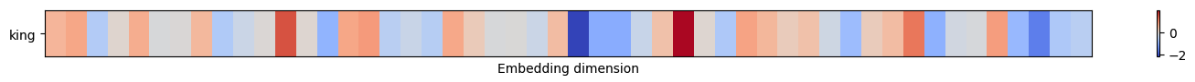
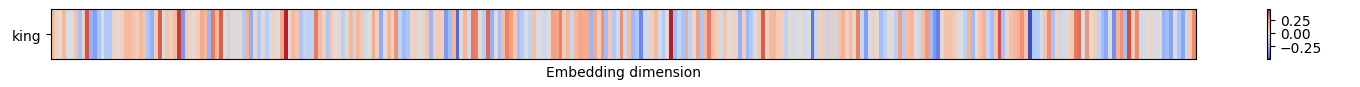
modify king queen example with google news word2vec

diff --git a/episodes/03-embeddings.md b/episodes/03-embeddings.md
@@ -272,16 +272,17 @@ Word embeddings become better and better at representing the words (i.e., a word
 
 In this section we are going to look at a pre-trained word2vec model (that is, pre-computed *word embeddings*) and at some of their properties. Towards the end of the section we're going to compare this model with a word2vec model that we trained on our own on a small subset of the Gutenberg books we introduced in the previous episode.
 
-We use the trained word2vec model named `GloVe` from the `gensim` library. The GloVe embeddings was trained on an English Wikipedia dump and English Gigaword 5th Edition dataset. It has 6B tokens. The original source of the embeddings can be found here: https://nlp.stanford.edu/projects/glove/
+We use the trained word2vec model named `word2vec-google-news-300` from the `gensim` library. This model is trained on a part of the Google News dataset (about 100 billion words). The model contains 300-dimensional vectors for 3 million words and phrases. 
 
 We can download this model locally with this code:
 
 ```python
 import gensim.downloader
-google_vectors = gensim.downloader.load('glove-wiki-gigaword-50')
+google_vectors = gensim.downloader.load('word2vec-google-news-300')
 ```
 
 ::::::: callout
+Note that `gensim` includes various models for word representations, not just `Word2Vec`. These include `FastText`, `Glove`, `ConceptNet`, etc. These methods capture different aspects of word and subword information. 
 
 You can see how many (and which) pretrained model the `gensim` library contains with the following code snippet:
 
@@ -294,6 +295,8 @@ Output:
 ```python
 ['fasttext-wiki-news-subwords-300', 'conceptnet-numberbatch-17-06-300', 'word2vec-ruscorpora-300', 'word2vec-google-news-300', 'glove-wiki-gigaword-50', 'glove-wiki-gigaword-100', 'glove-wiki-gigaword-200', 'glove-wiki-gigaword-300', 'glove-twitter-25', 'glove-twitter-50', 'glove-twitter-100', 'glove-twitter-200', '__testing_word2vec-matrix-synopsis']
 ```
+
+In the context of this episode we focus on `Word2Vec` only, as this is the most famous.
 :::::::
 
 Next, we can look at the embedding of the word `king`:
@@ -304,17 +307,84 @@ print(google_vectors['king'])
 
 Output:
 ```python
-[ 0.50451   0.68607  -0.59517  -0.022801  0.60046  -0.13498  -0.08813
-  0.47377  -0.61798  -0.31012  -0.076666  1.493    -0.034189 -0.98173
-  0.68229   0.81722  -0.51874  -0.31503  -0.55809   0.66421   0.1961
- -0.13495  -0.11476  -0.30344   0.41177  -2.223    -1.0756   -1.0783
- -0.34354   0.33505   1.9927   -0.04234  -0.64319   0.71125   0.49159
-  0.16754   0.34344  -0.25663  -0.8523    0.1661    0.40102   1.1685
- -1.0137   -0.21585  -0.15155   0.78321  -0.91241  -1.6106   -0.64426
- -0.51042 ]
+[ 1.25976562e-01  2.97851562e-02  8.60595703e-03  1.39648438e-01
+ -2.56347656e-02 -3.61328125e-02  1.11816406e-01 -1.98242188e-01
+  5.12695312e-02  3.63281250e-01 -2.42187500e-01 -3.02734375e-01
+ -1.77734375e-01 -2.49023438e-02 -1.67968750e-01 -1.69921875e-01
+  3.46679688e-02  5.21850586e-03  4.63867188e-02  1.28906250e-01
+  1.36718750e-01  1.12792969e-01  5.95703125e-02  1.36718750e-01
+  1.01074219e-01 -1.76757812e-01 -2.51953125e-01  5.98144531e-02
+  3.41796875e-01 -3.11279297e-02  1.04492188e-01  6.17675781e-02
+  1.24511719e-01  4.00390625e-01 -3.22265625e-01  8.39843750e-02
+  3.90625000e-02  5.85937500e-03  7.03125000e-02  1.72851562e-01
+  1.38671875e-01 -2.31445312e-01  2.83203125e-01  1.42578125e-01
+  3.41796875e-01 -2.39257812e-02 -1.09863281e-01  3.32031250e-02
+ -5.46875000e-02  1.53198242e-02 -1.62109375e-01  1.58203125e-01
+ -2.59765625e-01  2.01416016e-02 -1.63085938e-01  1.35803223e-03
+ -1.44531250e-01 -5.68847656e-02  4.29687500e-02 -2.46582031e-02
+  1.85546875e-01  4.47265625e-01  9.58251953e-03  1.31835938e-01
+  9.86328125e-02 -1.85546875e-01 -1.00097656e-01 -1.33789062e-01
+ -1.25000000e-01  2.83203125e-01  1.23046875e-01  5.32226562e-02
+ -1.77734375e-01  8.59375000e-02 -2.18505859e-02  2.05078125e-02
+ -1.39648438e-01  2.51464844e-02  1.38671875e-01 -1.05468750e-01
+  1.38671875e-01  8.88671875e-02 -7.51953125e-02 -2.13623047e-02
+  1.72851562e-01  4.63867188e-02 -2.65625000e-01  8.91113281e-03
+  1.49414062e-01  3.78417969e-02  2.38281250e-01 -1.24511719e-01
+ -2.17773438e-01 -1.81640625e-01  2.97851562e-02  5.71289062e-02
+ -2.89306641e-02  1.24511719e-02  9.66796875e-02 -2.31445312e-01
+  5.81054688e-02  6.68945312e-02  7.08007812e-02 -3.08593750e-01
+ -2.14843750e-01  1.45507812e-01 -4.27734375e-01 -9.39941406e-03
+  1.54296875e-01 -7.66601562e-02  2.89062500e-01  2.77343750e-01
+ -4.86373901e-04 -1.36718750e-01  3.24218750e-01 -2.46093750e-01
+ -3.03649902e-03 -2.11914062e-01  1.25000000e-01  2.69531250e-01
+  2.04101562e-01  8.25195312e-02 -2.01171875e-01 -1.60156250e-01
+ -3.78417969e-02 -1.20117188e-01  1.15234375e-01 -4.10156250e-02
+ -3.95507812e-02 -8.98437500e-02  6.34765625e-03  2.03125000e-01
+  1.86523438e-01  2.73437500e-01  6.29882812e-02  1.41601562e-01
+ -9.81445312e-02  1.38671875e-01  1.82617188e-01  1.73828125e-01
+  1.73828125e-01 -2.37304688e-01  1.78710938e-01  6.34765625e-02
+  2.36328125e-01 -2.08984375e-01  8.74023438e-02 -1.66015625e-01
+ -7.91015625e-02  2.43164062e-01 -8.88671875e-02  1.26953125e-01
+ -2.16796875e-01 -1.73828125e-01 -3.59375000e-01 -8.25195312e-02
+ -6.49414062e-02  5.07812500e-02  1.35742188e-01 -7.47070312e-02
+ -1.64062500e-01  1.15356445e-02  4.45312500e-01 -2.15820312e-01
+ -1.11328125e-01 -1.92382812e-01  1.70898438e-01 -1.25000000e-01
+  2.65502930e-03  1.92382812e-01 -1.74804688e-01  1.39648438e-01
+  2.92968750e-01  1.13281250e-01  5.95703125e-02 -6.39648438e-02
+  9.96093750e-02 -2.72216797e-02  1.96533203e-02  4.27246094e-02
+ -2.46093750e-01  6.39648438e-02 -2.25585938e-01 -1.68945312e-01
+  2.89916992e-03  8.20312500e-02  3.41796875e-01  4.32128906e-02
+  1.32812500e-01  1.42578125e-01  7.61718750e-02  5.98144531e-02
+ -1.19140625e-01  2.74658203e-03 -6.29882812e-02 -2.72216797e-02
+ -4.82177734e-03 -8.20312500e-02 -2.49023438e-02 -4.00390625e-01
+ -1.06933594e-01  4.24804688e-02  7.76367188e-02 -1.16699219e-01
+  7.37304688e-02 -9.22851562e-02  1.07910156e-01  1.58203125e-01
+  4.24804688e-02  1.26953125e-01  3.61328125e-02  2.67578125e-01
+ -1.01074219e-01 -3.02734375e-01 -5.76171875e-02  5.05371094e-02
+  5.26428223e-04 -2.07031250e-01 -1.38671875e-01 -8.97216797e-03
+ -2.78320312e-02 -1.41601562e-01  2.07031250e-01 -1.58203125e-01
+  1.27929688e-01  1.49414062e-01 -2.24609375e-02 -8.44726562e-02
+  1.22558594e-01  2.15820312e-01 -2.13867188e-01 -3.12500000e-01
+ -3.73046875e-01  4.08935547e-03  1.07421875e-01  1.06933594e-01
+  7.32421875e-02  8.97216797e-03 -3.88183594e-02 -1.29882812e-01
+  1.49414062e-01 -2.14843750e-01 -1.83868408e-03  9.91210938e-02
+  1.57226562e-01 -1.14257812e-01 -2.05078125e-01  9.91210938e-02
+  3.69140625e-01 -1.97265625e-01  3.54003906e-02  1.09375000e-01
+  1.31835938e-01  1.66992188e-01  2.35351562e-01  1.04980469e-01
+ -4.96093750e-01 -1.64062500e-01 -1.56250000e-01 -5.22460938e-02
+  1.03027344e-01  2.43164062e-01 -1.88476562e-01  5.07812500e-02
+ -9.37500000e-02 -6.68945312e-02  2.27050781e-02  7.61718750e-02
+  2.89062500e-01  3.10546875e-01 -5.37109375e-02  2.28515625e-01
+  2.51464844e-02  6.78710938e-02 -1.21093750e-01 -2.15820312e-01
+ -2.73437500e-01 -3.07617188e-02 -3.37890625e-01  1.53320312e-01
+  2.33398438e-01 -2.08007812e-01  3.73046875e-01  8.20312500e-02
+  2.51953125e-01 -7.61718750e-02 -4.66308594e-02 -2.23388672e-02
+  2.99072266e-02 -5.93261719e-02 -4.66918945e-03 -2.44140625e-01
+ -2.09960938e-01 -2.87109375e-01 -4.54101562e-02 -1.77734375e-01
+ -2.79296875e-01 -8.59375000e-02  9.13085938e-02  2.51953125e-01]
 ```
 
-This vector has 50 entries, i.e., 50 dimensions. We can't say much about what those dimensions map. 
+This vector has 300 entries, i.e., 300 dimensions. We can't say much about what those dimensions map. 
 We can represent this vector with a heatmap:
 
 ```python
@@ -337,7 +407,7 @@ plt.tight_layout()
 plt.show()
 
 ```
-![Embedding of king - Glove word2vec model](fig/emb7.png){alt=""}
+![Embedding of king - word2vec model](fig/emb7.png){alt=""}
 
 
 And compare it with other words, like "queen":
@@ -361,17 +431,18 @@ plt.tight_layout()
 plt.show()
 ```
 
-![Embedding of king vs queen - Glove word2vec model](fig/emb8.png){alt=""}
+![Embedding of king vs queen - word2vec model](fig/emb8.png){alt=""}
 
-We can see that although both vectors have the same number of dimensions, they seem to have similar values (i.e., colours) for some of them. Does this mean that they map the same features?
+
+This visualization shows that the the embeddings for `king` and `queen` share similar values in some dimensions. What do those dimension mean? It's risky to attribute specific features or meanings to individual dimensions based on their values. Individual dimensions in word embeddings are not directly interpretable: The similarities we observe are influenced by the corpus and the hyperparameters used during training. 
+
 
 :::::::::::::::::::: challenge
 Let's explore the dimensions of the embeddings.
+Even though we cannot be sure of what the dimensions mean, we can make some hypotheses comparing other embeddings, for similar meanings.
 
 - Add the vectors for ['boy','king','man', 'queen', 'woman', 'girl', 'daughter'] and plot it using the code above
 - Compare the vectors by vertically scanning the columns looking for columns with similar colors. What similarities do you see? What characteristics do you think they map?
-
-- Can you find the column that in your opinion points to `royalty`? and the one that codes for `gender`?
 
 :::::: solution
 
@@ -403,15 +474,9 @@ plt.show()
 ```
 2. Compare the vectors by vertically scanning the columns looking for columns with similar colors.
 
-![Exercise solution - Glove word2vec model](fig/emb9.png){alt=""}
+![Exercise solution - word2vec model](fig/emb9.png){alt=""}
 
 While we don't know which dimension code for what, we can see that some columns are similar for all words, while other seem to distinguish the characteristic of being royal and gender. We could add more words and get a better understanding of what they code, however ultimately these would be always guesses.
-
-3. Can you find the column that in your opinion points to a vague concept of `royalty`? and the one that codes for `gender`?
-
-Royalty might be tracked by the dimension n. 5, but I can't find the dimension that code for gender. 
-
-
 
 ::::::
 
